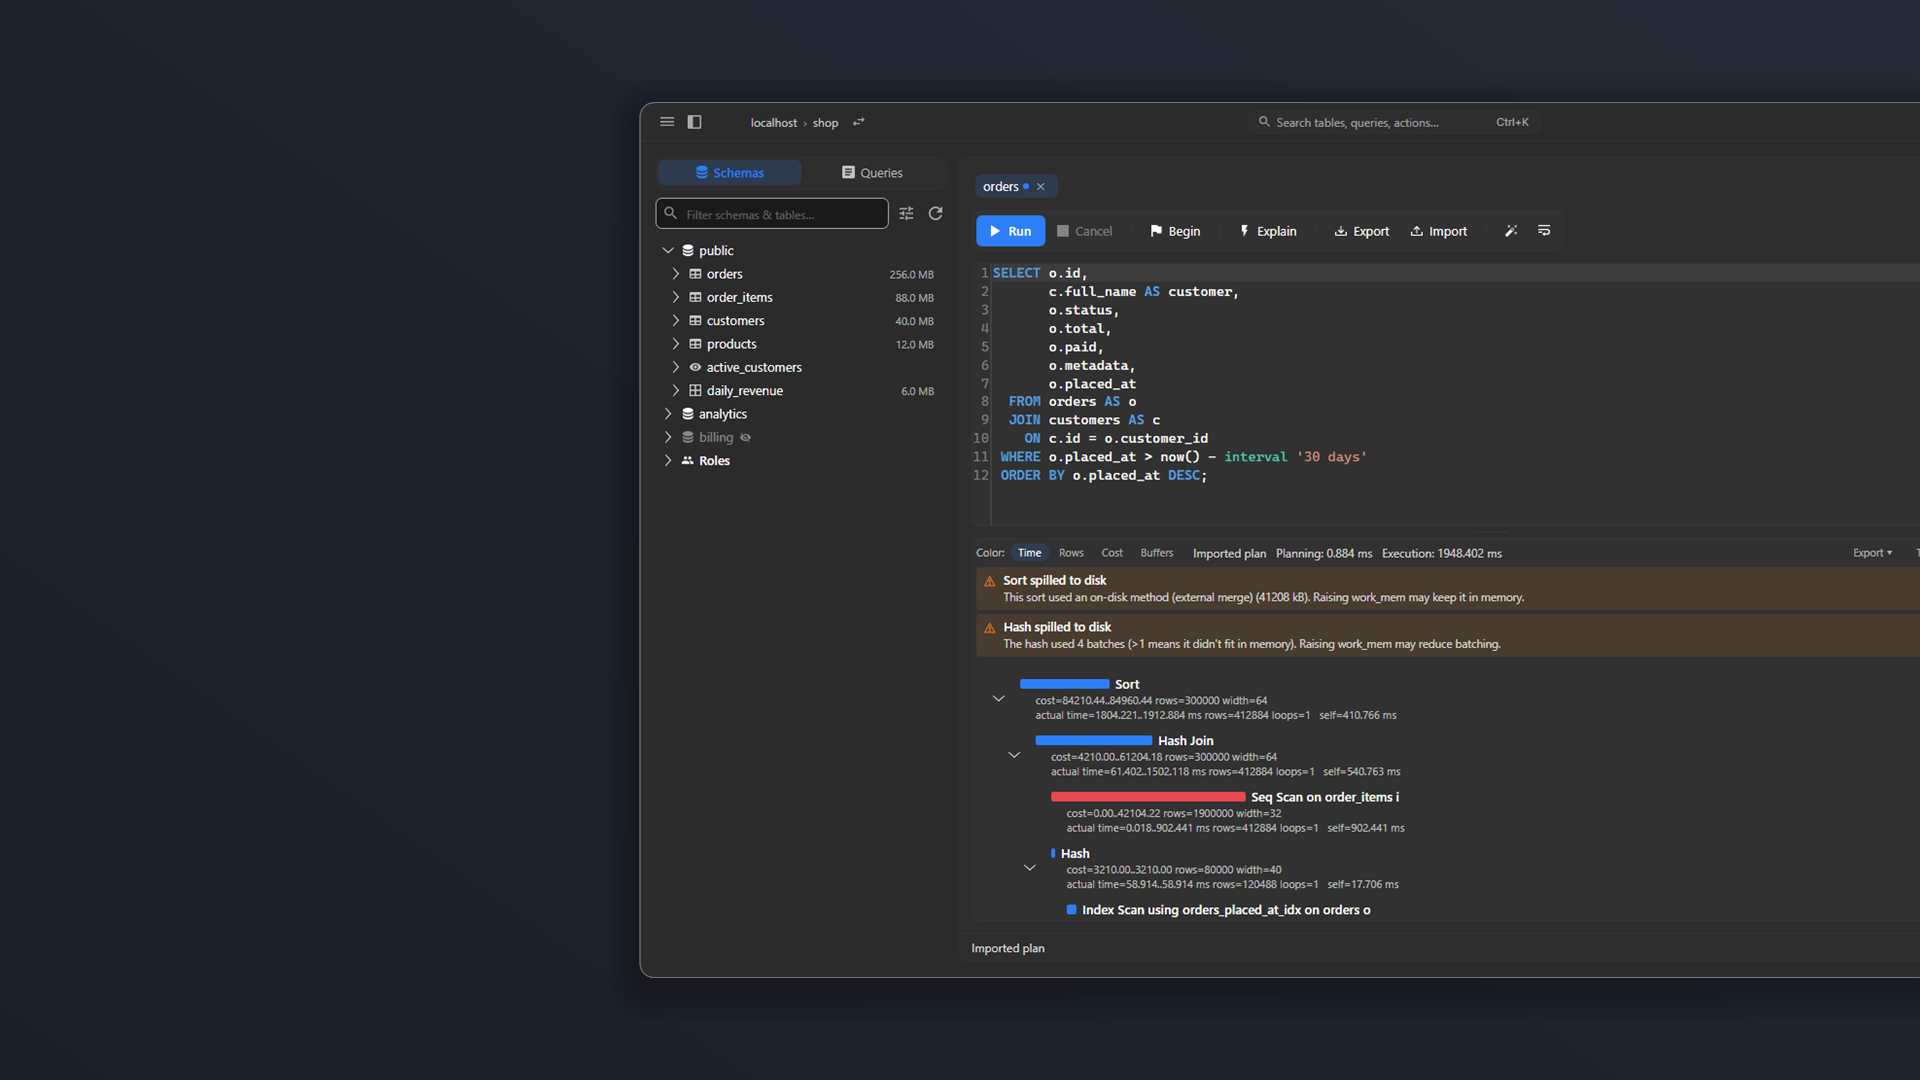
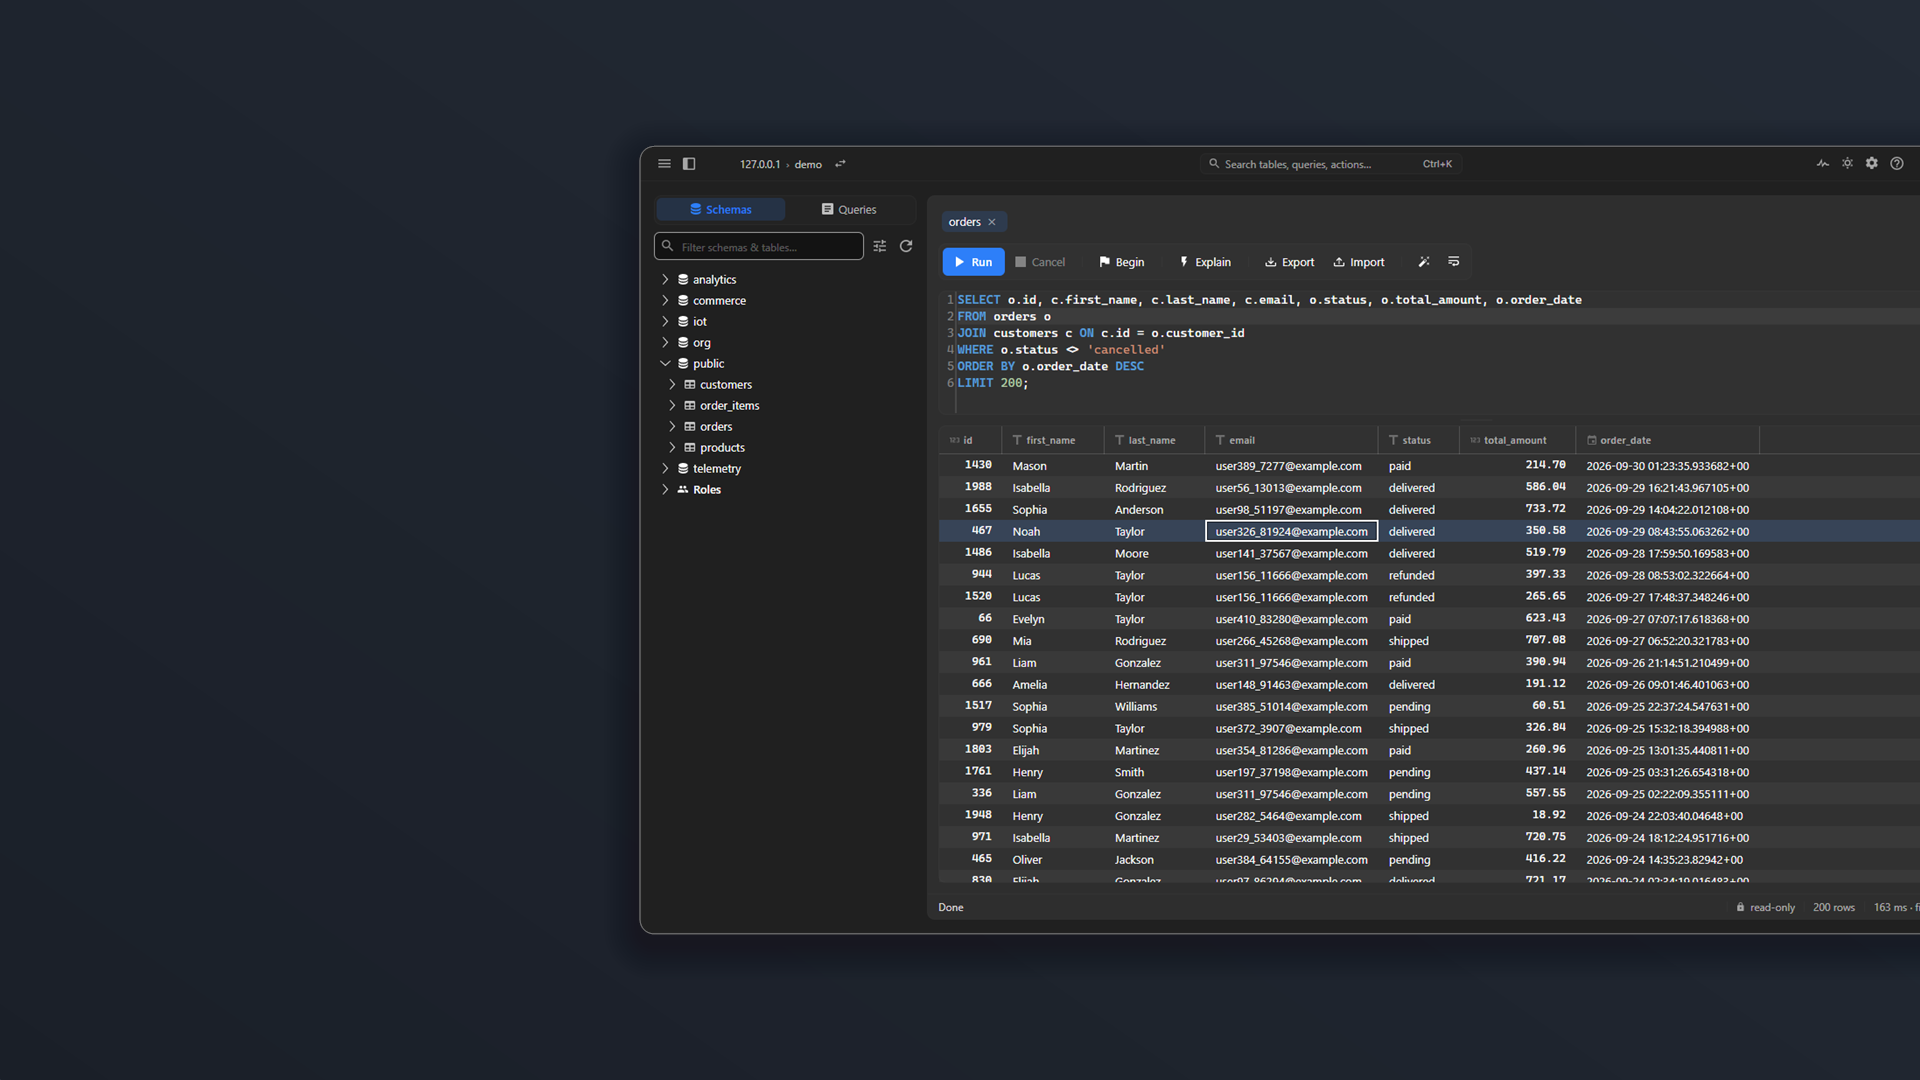
docs(store): super hero art from a real Windows capture of a query and its rows
The hero art showed the headless render of the plan tree. The everyday case
is a query and its rows, and a capture of the real app on Windows shows its
real window chrome and fonts. scenes/store-hero.ps1 takes that still
(dark theme, 1600x900) and make-store-hero.ps1 now reads it from
design/store/SuperHeroArt-source.dark.png.

diff --git a/design/LOGO-ASSETS.md b/design/LOGO-ASSETS.md
@@ -152,8 +152,9 @@ The poster carries the same wordmark-plus-tagline layout as
 
 Two more in the same folder come from elsewhere (2026-09): `SuperHeroArt-16x9-1920x1080.png`,
 the image the Store shows at the top of the listing once the trailer ends, from
-`scripts/windows/make-store-hero.ps1` (the harness screenshot
-`screenshots/02-query-plan.dark.png` on the brand navy, right of centre; the Store lays
+`scripts/windows/make-store-hero.ps1` (`SuperHeroArt-source.dark.png`, a query and its
+rows in the dark theme captured from the real app on Windows by
+`scripts/demo/record/scenes/store-hero.ps1`, on the brand navy, right of centre; the Store lays
 its own title over the left side and forbids the product's title in this image, so it
 carries no wordmark), and `trailer/`, the Store trailer and its thumbnail, from
 `scripts/demo/record/scenes/store-trailer.ps1` + `make-trailer.sh` (see

diff --git a/scripts/demo/record/README.md b/scripts/demo/record/README.md
@@ -12,6 +12,7 @@ capture box and writes `out\raw\<scene>.mp4`.
 | `scenes/explain-tree.ps1` | `explain-tree-demo.gif` |
 | `scenes/safe-mode.ps1` | `safe-mode-commit-demo.gif` |
 | `scenes/store-trailer.ps1` | `design/store/trailer/pgnimbus-trailer.mp4` (see below) |
+| `scenes/store-hero.ps1` | `design/store/SuperHeroArt-source.dark.png`, a still for `make-store-hero.ps1` |
 
 ## Rules
 
